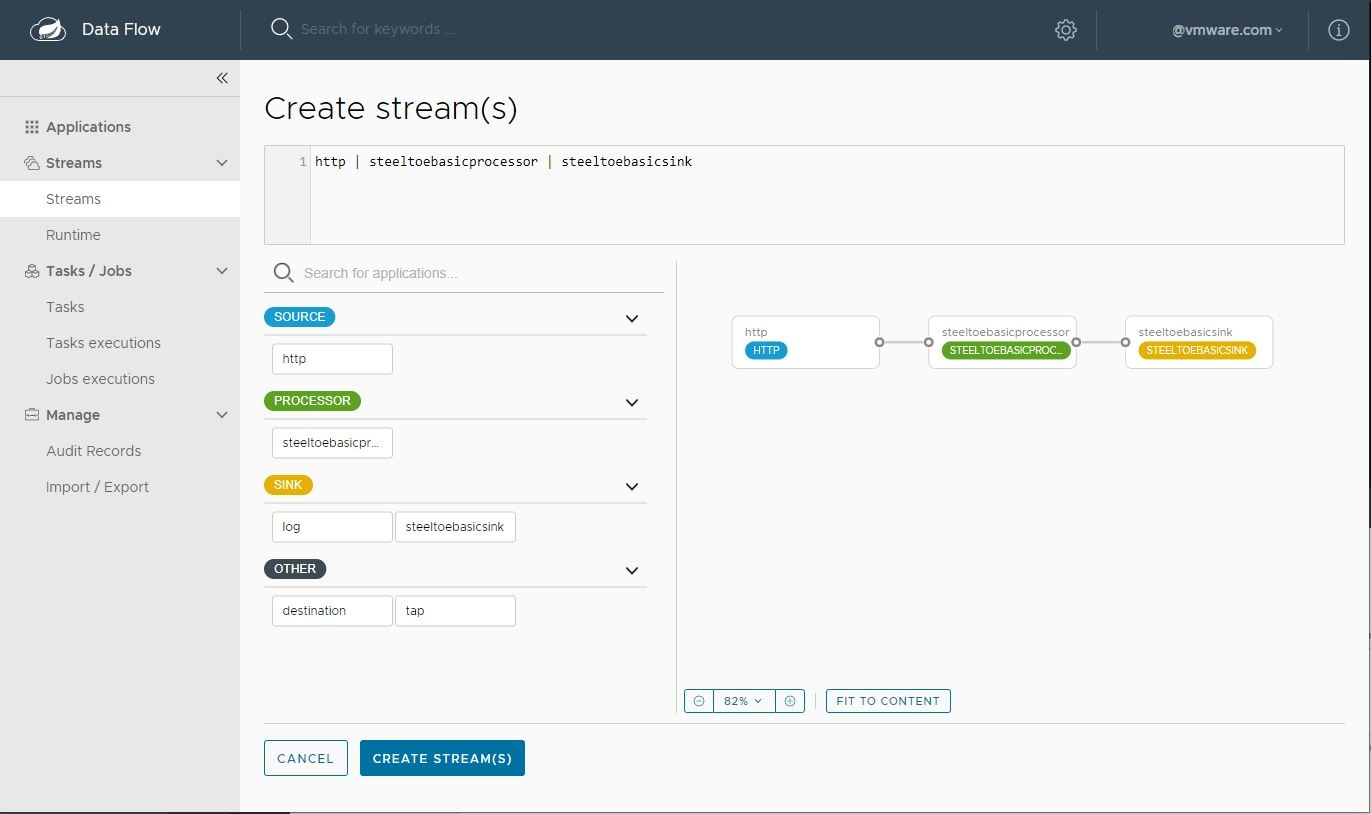
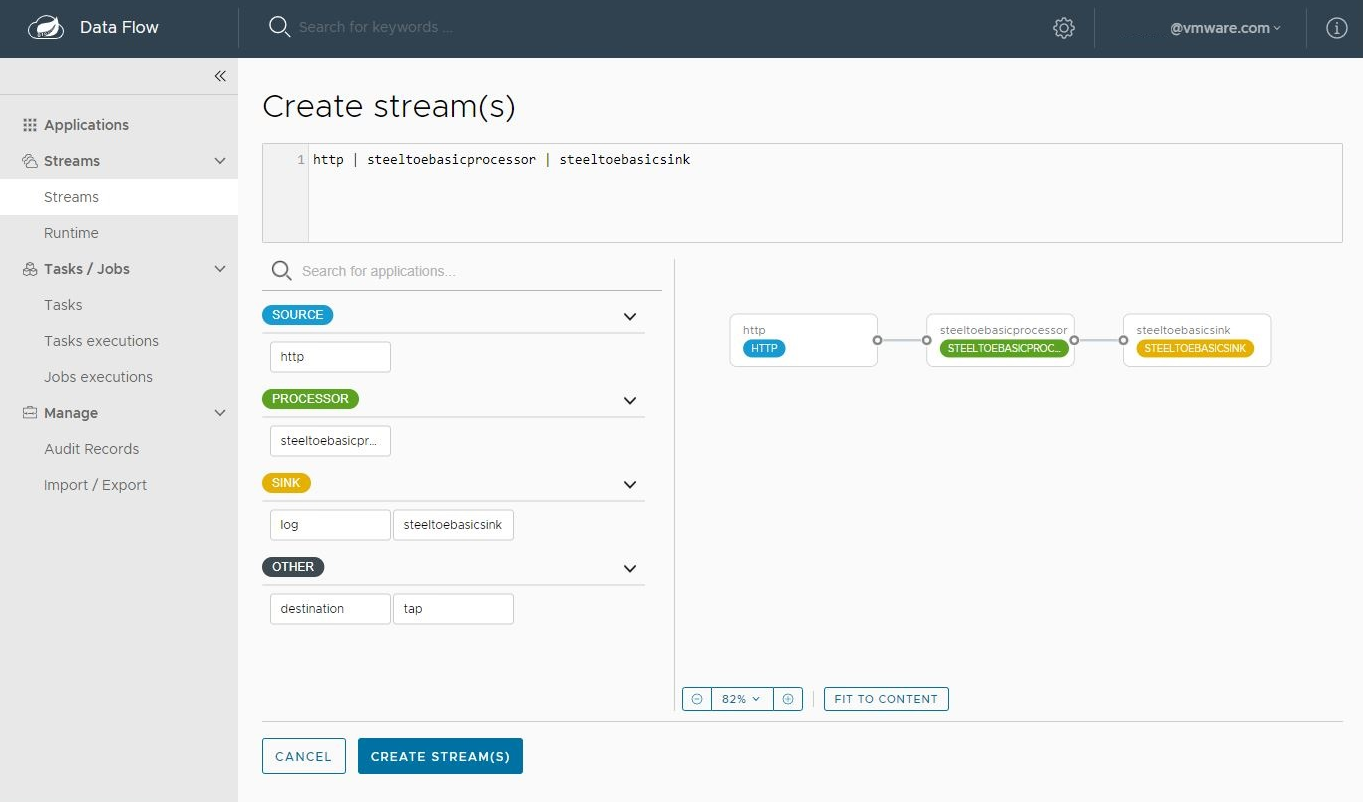
Update image widths; rename introduction to streamsReference

diff --git a/api/v3/stream/data-flow-stream.md b/api/v3/stream/data-flow-stream.md
@@ -86,7 +86,7 @@ The URI conforms to a [schema](https://docs.spring.io/spring-cloud-dataflow/docs
 
 The Data Flow Dashboard lands on the Application Registration view, where we can register the source, processor, and sink applications, as follows:
 
-![Add an application](images/SCDF-add-applications.png)
+   <img src="~/api/v3/stream/images/SCDF-add-applications.png" alt="Add an application" width="100%">
 
 In this step, we register the applications we previously created.
 When you register an application, you provide its:
@@ -136,23 +136,22 @@ In addition to the samples, register the pre-packaged `HttpSource` source applic
 
    > (uri = `docker://projects.registry.vmware.com/steeltoe/basicstreamprocessor:latest`)
 
-   ![Register source application maven](images/SCDF-register-apps.png)
+   <img src="~/api/v3/stream/images/SCDF-register-apps.png" alt="Register source application " width="100%">
 
 1. Click on **IMPORT APPLICATION(S)** to complete the registration. Doing so takes you back to the Applications view, which lists your applications. The following image shows an example:
 
-   ![Registered applications](images/SCDF-registered-apps.png)
-
+   <img src="~/api/v3/stream/images/SCDF-registered-apps.png" alt="Registered application " width="100%">
 ### Creating the Stream Definition
 
 To create the stream definition:
 
 1. Select **Streams** from the left navigation bar. This shows the main Streams view, as follows:
 
-   ![Create streams](images/SCDF-create-streams.png)
+ <img src="~/api/v3/stream/images/SCDF-create-streams.png" alt="Create Streams " width="100%">
 
 1. Select **Create stream(s)** to display a graphical editor to create the stream definition, as the following image shows:
 
-   ![Create steeltoe stream](images/SCDF-create-steeltoe-stream.png)
+ <img src="~/api/v3/stream/images/SCDF-create-steeltoe-stream.png" alt="Create Steeltoe stream " width="100%">
 
    You can see the `Source`, `Processor` and `Sink` applications, as registered above, in the left panel.
 
@@ -170,16 +169,15 @@ To deploy your stream,
 
 1. Select `Deploy`, as follows:
 
-   ![Stream created](images/SCDF-stream-created.png)
+ <img src="~/api/v3/stream/images/SCDF-stream-created.png" alt="Stream created" width="100%">
 
 1. When deploying the stream, choose the target platform accounts from local, Kubernetes, or Cloud Foundry. This is based on the Spring Cloud Skipper server deployer platform account setup.
 
-   ![Deploy stream](images/SCDF-deploy-stream.png)
+ <img src="~/api/v3/stream/images/SCDF-deploy-stream.png" alt="Deploy Stream" width="100%">
 
    When all the applications are running, the stream is successfully deployed.
 
-   ![Stream deployed](images/SCDF-stream-deployed.png)
-
+ <img src="~/api/v3/stream/images/SCDF-stream-deployed.png" alt="Stream deployed" width="100%">
 <!-- TODO The preceding process is basically the same for all platforms. The following sections addresses platform-specific details for deploying on Data Flow on Local, Cloud Foundry, and Kubernetes. -->
 <!-- >
 
@@ -222,15 +220,15 @@ Before registering and deploying stream applications to Cloud Foundry by using t
 
 Once you have followed the steps shown earlier in this chapter and have registered the applications as well as deployed the stream, you can see the successfully deployed applications in your in your Org and Space in Cloud Foundry.
 
-![Cloud Foundry Apps Manager with the deployed Stream Application](images/SCDF-CF-dashboard.png)
+ <img src="~/api/v3/stream/images/SCDF-CF-dashboard.png" alt="Cloud Foundry Apps Manager with the deployed Stream Application" width="100%">
 
 You can access the runtime information of your stream applications in the Spring Cloud Data Flow dashboard as well.
 
-Besides verifying the runtime status of your stream, you should also verify the logging output produced by the `basicstreamsink` sink. In Cloud Foundry Apps Manager, click the **Logs** tab of the `basicstreamsink` sink application. 
+Besides verifying the runtime status of your stream, you should also verify the logging output produced by the `basicstreamsink` sink. In Cloud Foundry Apps Manager, click the **Logs** tab of the `basicstreamsink` sink application.
 
  The logging statements should look like the following:
 
-![Data Flow Runtime Information](images/SCDF-CF-dashboard-logging.png)
+ <img src="~/api/v3/stream/images/SCDF-CF-dashboard-logging.png" alt="Data Flow Runtime Information" width="100%">
 
 <!-- ### Kubernetes
 

diff --git a/api/v3/stream/stream-reference.md b/api/v3/stream/stream-reference.md
@@ -703,7 +703,7 @@ The error handling comes in two flavors:
 
 There are two types of application-level error handling. Errors can be handled at each binding subscription or by a global handler which handles all the binding errors. Below are the details.
 
-![A Application with Custom and Global Error Handlers](./images/custom_vs_global_error_channels.png)
+   <img src="~/api/v3/stream/images/custom_vs_global_error_channels.png" alt="An Application with Custom and Global Error Handler" width="100%">
 
 For each input binding, Steeltoe Streams creates a dedicated error channel with the following name `<destinationName>.errors`.
 

diff --git a/api/v3/stream/index.md b/api/v3/stream/index.md
@@ -12,7 +12,6 @@ With Steeltoe Streams, developers can:
 * Rely on the framework's automatic content-type support for common use-cases and yet is extendable to different data conversion types as needed.
 * Develop Streams components in .NET which can be deployed on [Spring Cloud Data Flow](https://spring.io/projects/spring-cloud-dataflow#overview).
 
-
 For more reading about Steeltoe Streams:
 
 * Explore the components that make up the streams framework with the [Stream Reference](./stream-reference.md).
